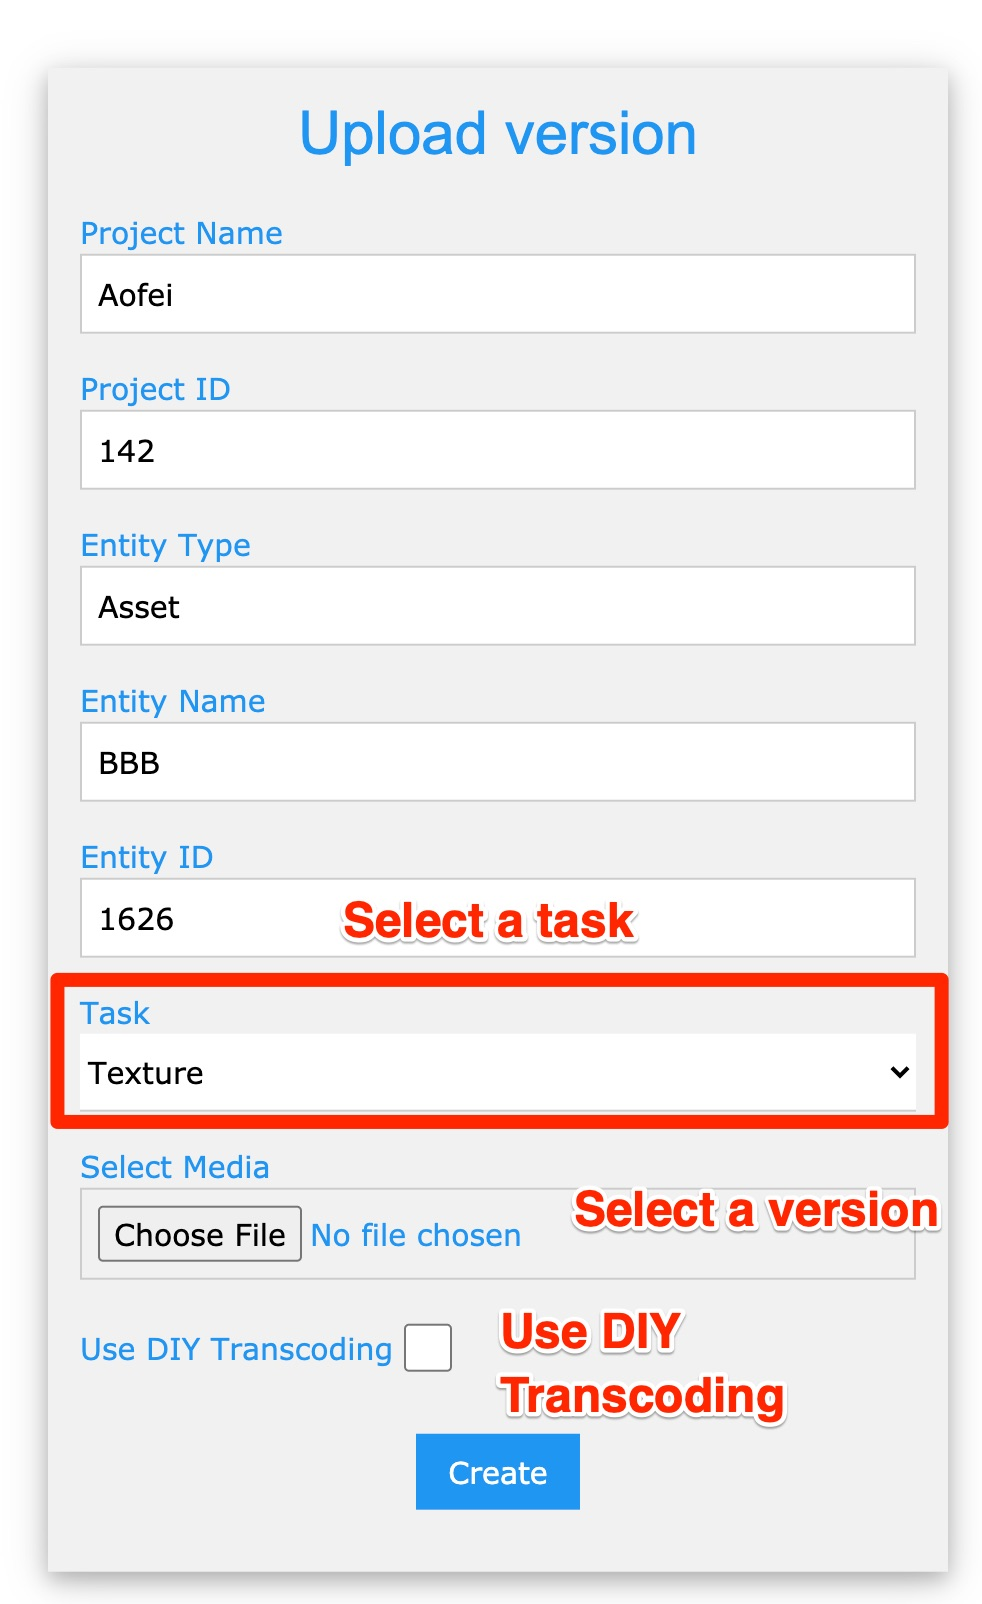
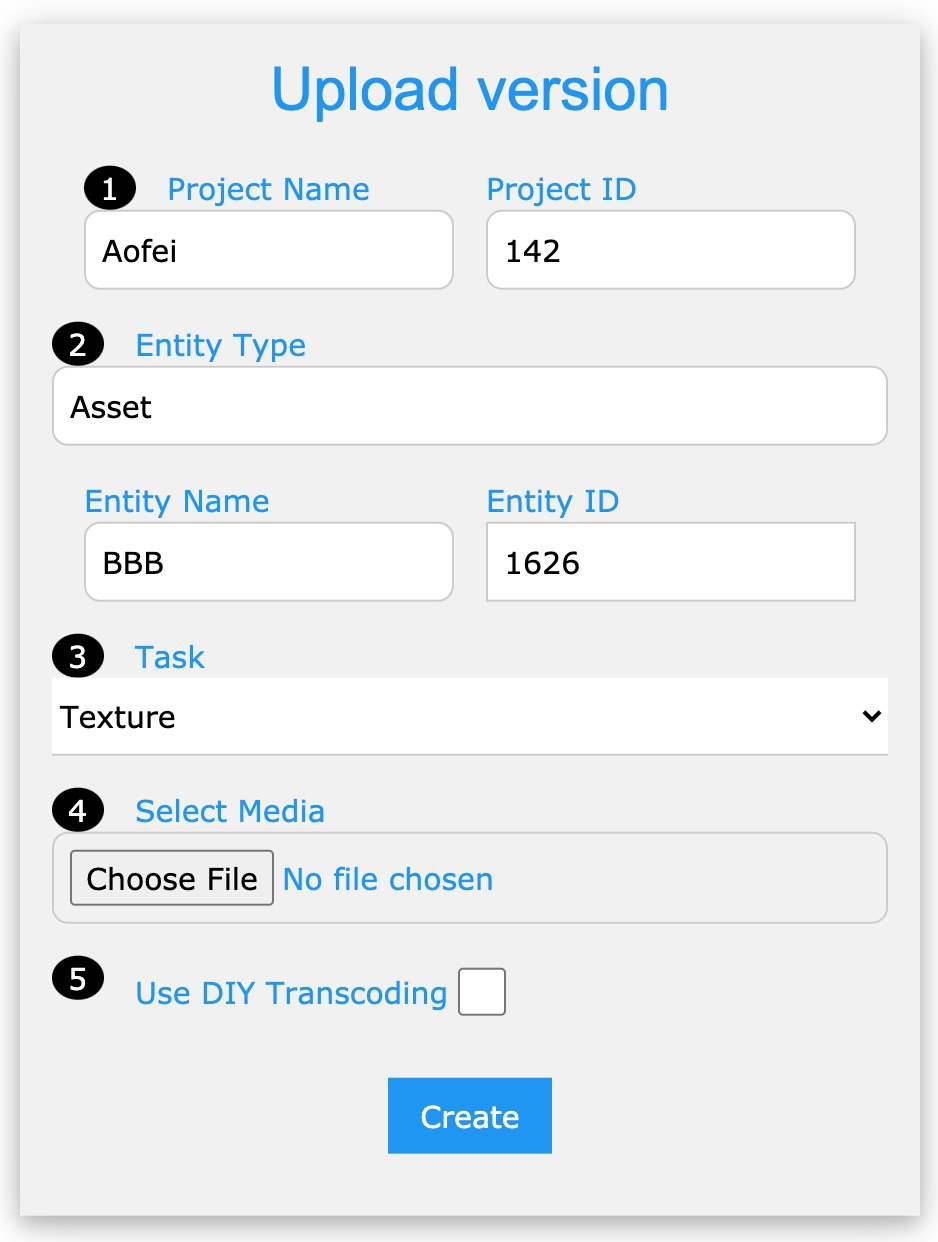
add badge

diff --git a/www/templates/index.html b/www/templates/index.html
@@ -2,43 +2,47 @@
 {% block content %}
 <form action="/upload" class="w3-container w3-card-4 w3-light-grey w3-text-blue w3-margin w3-display-middle" method="post" style="width:450px" enctype=multipart/form-data>
     <h2 class="w3-center">{{i18n['title']}}</h2>
-    <div class="w3-row w3-section">
-        <label>{{i18n['project_name']}}</label>
-          <div class="w3-rest">
-            <input class="w3-input w3-border" name="project_name" type="text" value = {{data["project_name"]}} readonly>
-          </div>
-    </div>
-    <div class="w3-row w3-section">
-        <label>{{i18n['project_id']}}</label>
-        <div class="w3-rest">
-            <input class="w3-input w3-border" name="project_id" type="text" value = {{data["project_id"]}} readonly>
+    <div class="w3-row-padding w3-section">
+        <div class="w3-half">
+            <span class="w3-badge w3-left w3-margin-right">1</span><label>{{i18n['project_name']}}</label>
+            <div class="w3-rest">
+                <input class="w3-input w3-border w3-round-large" name="project_name" type="text" readonly value = {{data["project_name"]}} placeholder="One" >
+            </div>
+        </div>
+        <div class="w3-half">
+            <label>{{i18n['project_id']}}</label>
+            <div class="w3-rest">
+                <input class="w3-input w3-border w3-round-large" name="project_id" type="text" readonly value = {{data["project_id"]}} placeholder="Two">
+            </div>
         </div>
     </div>
     <div class="w3-row w3-section">
-        <label>{{i18n['entity_type']}}</label>
-          <div class="w3-rest">
-            <input class="w3-input w3-border" name="entity_type" type="text" value = {{data["entity_type"]}} readonly>
-          </div>
-    </div>
-    <div class="w3-row w3-section">
-        <label>{{i18n['entity_name']}}</label>
+        <span class="w3-badge w3-left w3-margin-right">2</span><label>{{i18n['entity_type']}}</label>
         <div class="w3-rest">
-            <input class="w3-input w3-border" name="entity_name" type="text" value = {{data["entity_name"]}} readonly>
+            <input class="w3-input w3-border w3-round-large" name="entity_type" type="text" readonly value = {{data["entity_type"]}}>
         </div>
     </div>
-    <div class="w3-row w3-section">
-        {% if data['tasks'] is defined %}
-            <label>{{i18n['entity_id']}}</label>
-        {% else %}
-            <label>{{i18n['task_id']}}</label>
-        {% endif %}
-        <div class="w3-rest">
-            <input class="w3-input w3-border" name="entity_id" type="text" value = {{data["entity_id"]}} readonly>
+    <div class="w3-row-padding w3-section">
+        <div class="w3-half">
+            <label>{{i18n['entity_name']}}</label>
+            <div class="w3-rest">
+                <input class="w3-input w3-border w3-round-large" name="entity_name" type="text" readonly value = {{data["entity_name"]}} placeholder="One">
+            </div>
+        </div>
+        <div class="w3-half">
+            {% if data['tasks'] is defined %}
+                <label>{{i18n['entity_id']}}</label>
+            {% else %}
+                <label>{{i18n['task_id']}}</label>
+            {% endif %}
+            <div class="w3-rest">
+                <input class="w3-input w3-border" name="entity_id" type="text" readonly value = {{data["entity_id"]}}  placeholder="Two">
+            </div>
         </div>
     </div>
     {% if data['tasks'] is defined %}
     <div class="w3-row w3-section">
-        <label>{{i18n['tasks']}}</label>
+        <span class="w3-badge w3-left w3-margin-right">3</span><label>{{i18n['tasks']}}</label>
         <div class="w3-rest">  
             <select name="task_id" class="w3-select">
                 {% for task in data['tasks'] %}
@@ -49,12 +53,22 @@
     </div>
     {% endif %}
     <div class="w3-row w3-section">
+        {% if data['tasks'] is defined %}
+            <span class="w3-badge w3-left w3-margin-right">4</span>
+        {% else %}
+            <span class="w3-badge w3-left w3-margin-right">3</span>
+        {% endif %}
         <label>{{i18n['select_media']}}</label>
         <div class="w3-rest">
-            <input class="w3-input w3-border" type=file name=file>
+            <input class="w3-input w3-border w3-round-large" type=file name=file>
         </div>
     </div>
     <div class="w3-row w3-section">
+        {% if data['tasks'] is defined %}
+            <span class="w3-badge w3-left w3-margin-right">5</span>
+        {% else %}
+            <span class="w3-badge w3-left w3-margin-right">4</span>
+        {% endif %}
         <label>{{i18n['use_diy']}}</label>
         <input class="w3-check" name="use_diy" type="checkbox">
     </div>
